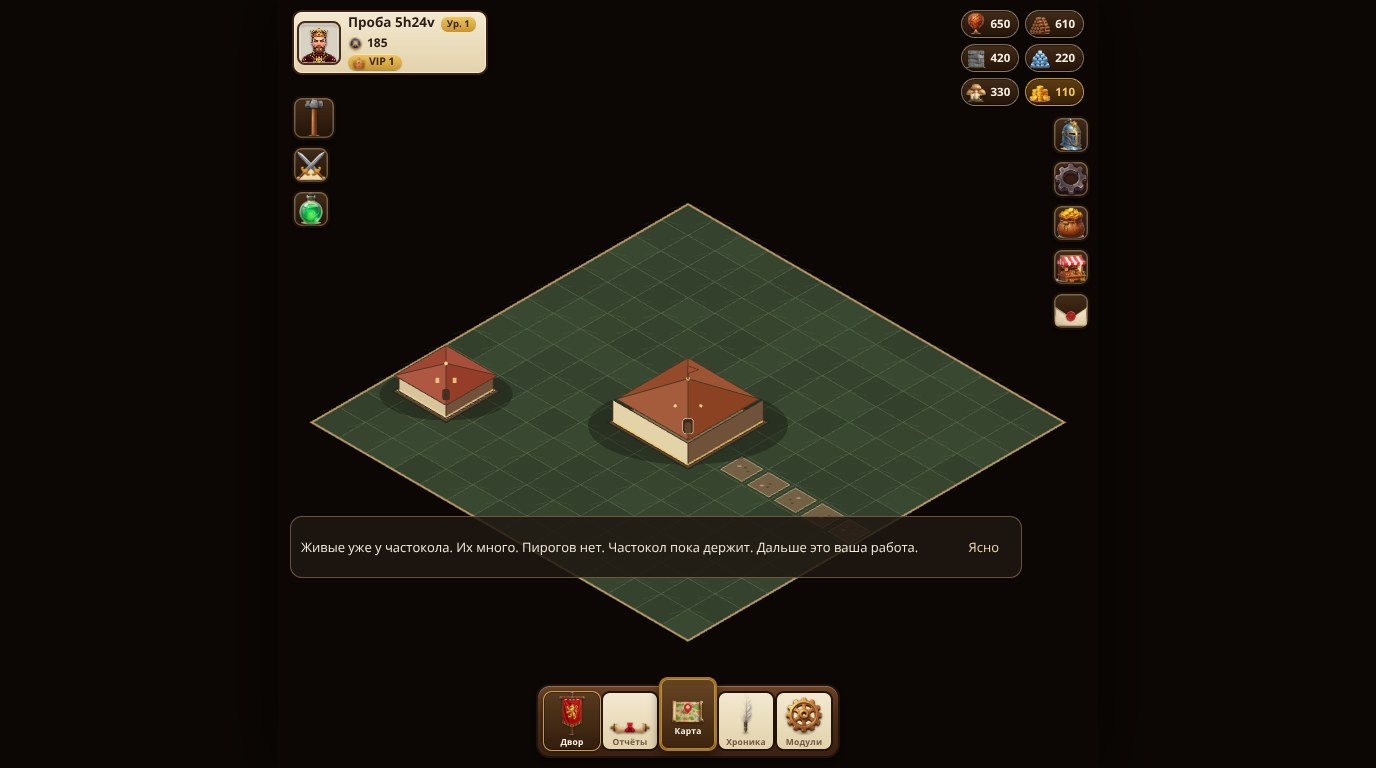
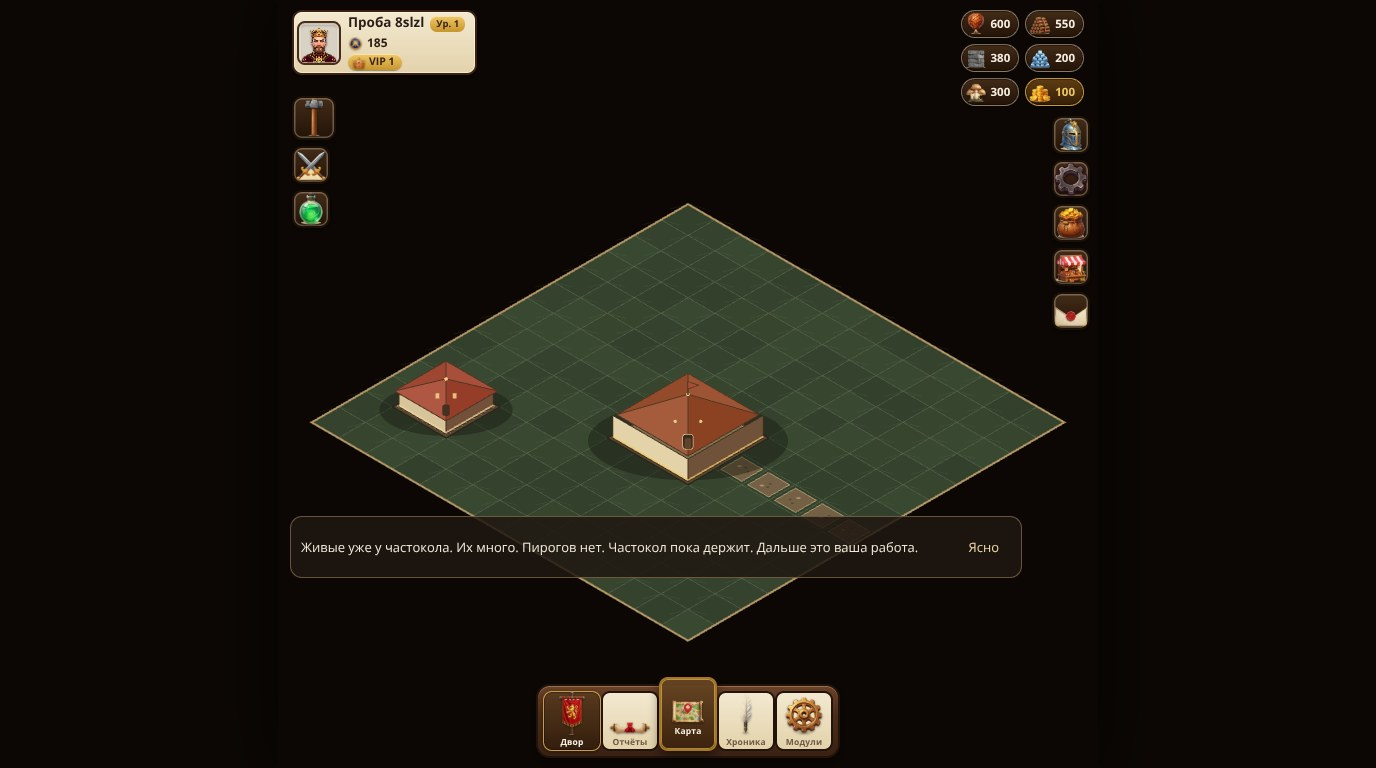
Выровнять геометрию зданий двора

Changed region(s): [[0.4375, 0.4688, 0.5625, 0.625], [0.2812, 0.4375, 0.375, 0.5625], [0.2812, 0.0, 0.375, 0.0938]]

diff --git a/apps/client/src/game/court/ghost.ts b/apps/client/src/game/court/ghost.ts
@@ -1,5 +1,5 @@
 import { Graphics } from "pixi.js";
-import { buildingFootprint } from "./building.js";
+import { buildingCenter, buildingFootprintBounds } from "./building.js";
 import { cellDiamond, TILE_HEIGHT, TILE_WIDTH, worldToScreen } from "./isometric.js";
 import type { CourtCell, CourtGrid, CourtSceneMode } from "./types.js";
 
@@ -35,18 +35,12 @@ export function drawGhost(
     return;
   }
 
-  const footprint = buildingFootprint(preview.type);
-  const halfX = Math.floor(footprint.width / 2);
-  const halfZ = Math.floor(footprint.depth / 2);
-  const firstX = preview.x - halfX;
-  const firstZ = preview.z - halfZ;
-  const lastX = firstX + footprint.width - 1;
-  const lastZ = firstZ + footprint.depth - 1;
+  const bounds = buildingFootprintBounds(preview.type, preview.x, preview.z);
   const points = [
-    worldToScreen(firstX, firstZ),
-    worldToScreen(lastX + 1, firstZ),
-    worldToScreen(lastX + 1, lastZ + 1),
-    worldToScreen(firstX, lastZ + 1),
+    worldToScreen(bounds.minX, bounds.minZ),
+    worldToScreen(bounds.maxX, bounds.minZ),
+    worldToScreen(bounds.maxX, bounds.maxZ),
+    worldToScreen(bounds.minX, bounds.maxZ),
   ].map((point) => ({ x: point.x, y: point.y - (size * TILE_HEIGHT) / 2 }));
 
   const valid = isPlacementOpen(grid, preview, mode.pending?.from, size);
@@ -57,7 +51,8 @@ export function drawGhost(
     .stroke({ color, width: 2.5, alpha: 0.95 });
 
   // Небольшой маяк показывает, что именно сейчас выбрано в панели стройки.
-  const center = worldToScreen(preview.x - (footprint.width % 2 === 0 ? 0.5 : 0), preview.z - (footprint.depth % 2 === 0 ? 0.5 : 0));
+  const placementCenter = buildingCenter(preview);
+  const center = worldToScreen(placementCenter.x, placementCenter.z);
   graphics
     .circle(center.x, center.y - (size * TILE_HEIGHT) / 2 - TILE_HEIGHT * 0.45, Math.max(3, TILE_WIDTH * 0.11))
     .fill({ color, alpha: 0.72 })
@@ -70,23 +65,19 @@ function isPlacementOpen(
   movingFrom: CourtCell | undefined,
   size: number,
 ): boolean {
-  const footprint = buildingFootprint(placement.type);
-  const halfX = Math.floor(footprint.width / 2);
-  const halfZ = Math.floor(footprint.depth / 2);
+  const target = buildingFootprintBounds(placement.type, placement.x, placement.z);
   const cells = new Set<string>();
   for (const building of grid.buildings) {
     if (movingFrom && building.x === movingFrom.x && building.z === movingFrom.z && building.type === placement.type) continue;
-    const occupied = buildingFootprint(building.type);
-    const fromX = building.x - Math.floor(occupied.width / 2);
-    const fromZ = building.z - Math.floor(occupied.depth / 2);
-    for (let x = fromX; x < fromX + occupied.width; x += 1) {
-      for (let z = fromZ; z < fromZ + occupied.depth; z += 1) cells.add(`${x}:${z}`);
+    const occupied = buildingFootprintBounds(building.type, building.x, building.z);
+    for (let x = occupied.minX; x < occupied.maxX; x += 1) {
+      for (let z = occupied.minZ; z < occupied.maxZ; z += 1) cells.add(`${x}:${z}`);
     }
   }
   for (const road of grid.roads) cells.add(`${road.x}:${road.z}`);
 
-  for (let x = placement.x - halfX; x < placement.x - halfX + footprint.width; x += 1) {
-    for (let z = placement.z - halfZ; z < placement.z - halfZ + footprint.depth; z += 1) {
+  for (let x = target.minX; x < target.maxX; x += 1) {
+    for (let z = target.minZ; z < target.maxZ; z += 1) {
       if (x < 0 || z < 0 || x >= size || z >= size || cells.has(`${x}:${z}`)) return false;
     }
   }

diff --git a/apps/client/src/game/court/building.ts b/apps/client/src/game/court/building.ts
@@ -1,5 +1,5 @@
 import { Container, Graphics } from "pixi.js";
-import { getDepth, TILE_HEIGHT, TILE_WIDTH, worldToScreen } from "./isometric.js";
+import { TILE_HEIGHT, TILE_WIDTH, worldToScreen } from "./isometric.js";
 import type { CourtBuilding } from "./types.js";
 
 export interface Footprint {
@@ -39,13 +39,43 @@ function footprintOf(type: string): Footprint {
   return FOOTPRINTS[type] ?? { width: 1, depth: 1 };
 }
 
-/** Для чётного пятна серверный якорь стоит на правой/нижней из двух клеток. */
-export function buildingCenter(building: CourtBuilding): { x: number; z: number } {
-  const footprint = footprintOf(building.type);
+export interface BuildingFootprintBounds {
+  minX: number;
+  minZ: number;
+  maxX: number;
+  maxZ: number;
+  width: number;
+  depth: number;
+  center: { x: number; z: number };
+}
+
+/** Границы пятна по той же схеме, что сервер: координаты здания — индекс якорной клетки. */
+export function buildingFootprintBounds(type: string, x: number, z: number): BuildingFootprintBounds {
+  const footprint = footprintOf(type);
+  const minX = x - Math.floor(footprint.width / 2);
+  const minZ = z - Math.floor(footprint.depth / 2);
+  const maxX = minX + footprint.width;
+  const maxZ = minZ + footprint.depth;
   return {
-    x: building.x - (footprint.width % 2 === 0 ? 0.5 : 0),
-    z: building.z - (footprint.depth % 2 === 0 ? 0.5 : 0),
+    minX,
+    minZ,
+    maxX,
+    maxZ,
+    width: footprint.width,
+    depth: footprint.depth,
+    center: { x: (minX + maxX) / 2, z: (minZ + maxZ) / 2 },
   };
+}
+
+/** Центр геометрии: клетки заданы целыми индексами, их центры — индекс + 0.5. */
+export function buildingCenter(building: CourtBuilding): { x: number; z: number } {
+  return buildingFootprintBounds(building.type, building.x, building.z).center;
+}
+
+/** Глубина сортировки по переднему нижнему углу footprint. */
+export function buildingDepth(building: CourtBuilding): number {
+  const bounds = buildingFootprintBounds(building.type, building.x, building.z);
+  return bounds.maxX + bounds.maxZ;
 }
 
 function point(x: number, z: number, elevation = 0): { x: number; y: number } {
@@ -219,7 +249,7 @@ export function createBuilding(building: CourtBuilding, size: number, townhallLe
   const projected = worldToScreen(center.x, center.z);
   const container = new Container();
   container.position.set(projected.x, projected.y - (size * TILE_HEIGHT) / 2);
-  container.zIndex = getDepth(center.x, center.z) + (footprint.width + footprint.depth) / 4;
+  container.zIndex = buildingDepth(building);
   container.label = `building:${building.type}:${building.x}:${building.z}`;
 
   const graphics = new Graphics();

diff --git a/apps/client/src/game/court/courtScene.ts b/apps/client/src/game/court/courtScene.ts
@@ -2,7 +2,7 @@ import { Application, Container, Graphics } from "pixi.js";
 import { bridge } from "../bridge.js";
 import type { StateUpdate } from "../bridge.js";
 import { CourtCamera } from "./camera.js";
-import { createBuilding, hitBuilding } from "./building.js";
+import { buildingDepth, createBuilding, hitBuilding } from "./building.js";
 import { drawGhost } from "./ghost.js";
 import { CourtInput } from "./input.js";
 import { screenToCell } from "./isometric.js";
@@ -120,15 +120,15 @@ export class CourtScene {
   private handleTap(point: { x: number; y: number }): void {
     const local = this.camera.toLocal(point);
     const cell = screenToCell(local.x, local.y, this.grid.size);
-    if (!cell) return;
 
     if (this.mode.placing || this.mode.roadTool || this.mode.pending?.from) {
-      bridge.emit("tile:click", cell);
+      if (cell) bridge.emit("tile:click", cell);
       return;
     }
 
+    // Здание проверяем раньше клетки: крыша может выступать за плоскость сетки.
     const building = [...this.grid.buildings]
-      .sort((a, b) => depth(b) - depth(a))
+      .sort((a, b) => buildingDepth(b) - buildingDepth(a))
       .find((candidate) => hitBuilding(candidate, local, this.grid.size));
     if (building) {
       bridge.emit("building:click", {
@@ -139,7 +139,7 @@ export class CourtScene {
       });
       return;
     }
-    bridge.emit("tile:click", cell);
+    if (cell) bridge.emit("tile:click", cell);
   }
 
   private drawPreview(): void {
@@ -195,8 +195,4 @@ function isRecord(value: unknown): value is Record<string, unknown> {
 
 function inside(cell: { x: number; z: number }, size: number): boolean {
   return cell.x >= 0 && cell.z >= 0 && cell.x < size && cell.z < size;
-}
-
-function depth(building: CourtBuilding): number {
-  return building.x + building.z;
 }

diff --git a/apps/client/tests/building.test.ts b/apps/client/tests/building.test.ts
@@ -1,0 +1,29 @@
+import { describe, expect, it } from "vitest";
+import { buildingCenter, buildingDepth, buildingFootprintBounds, createBuilding } from "../src/game/court/building.js";
+import { TILE_HEIGHT, worldToScreen } from "../src/game/court/isometric.js";
+
+describe("court building geometry", () => {
+  it("centers the visual footprint on the server's occupied cells", () => {
+    expect(buildingFootprintBounds("townhall", 7, 7)).toMatchObject({
+      minX: 6,
+      minZ: 6,
+      maxX: 9,
+      maxZ: 9,
+      center: { x: 7.5, z: 7.5 },
+    });
+    expect(buildingCenter({ type: "cottage", x: 4, z: 6 })).toEqual({ x: 4, z: 6 });
+    expect(buildingCenter({ type: "bench", x: 4, z: 6 })).toEqual({ x: 4, z: 6.5 });
+    expect(buildingCenter({ type: "lantern", x: 2, z: 8 })).toEqual({ x: 2.5, z: 8.5 });
+  });
+
+  it("positions the sprite at the footprint center and sorts by its front edge", () => {
+    const building = { type: "cottage", x: 4, z: 6 };
+    const sprite = createBuilding(building, 14);
+    const center = worldToScreen(4, 6);
+
+    expect(sprite.position.x).toBeCloseTo(center.x, 6);
+    expect(sprite.position.y).toBeCloseTo(center.y - (14 * TILE_HEIGHT) / 2, 6);
+    expect(buildingDepth(building)).toBe(12);
+    sprite.destroy({ children: true });
+  });
+});

diff --git a/docs/game/28-pixi-migration.md b/docs/game/28-pixi-migration.md
@@ -137,8 +137,8 @@ R3F), `src/three-jsx.d.ts`. Оставляем: `tools/shots/*` (boot-shot, walk
       getDepth = x + z; unit-тесты.
 - [x] `tileMap.ts`: сетка `grid.size`×`grid.size` (с сервера), графика тайлов и дорог,
       tap по клетке → bridge.
-- [x] `building.ts`: векторные placeholder-модели по типу, сортировка по глубине,
-      tap по зданию → bridge; реальные PNG — отдельная задача.
+- [x] `building.ts`: векторные placeholder-модели по типу; anchor footprint совпадает с сервером,
+      модель, ghost и hit-test используют единые границы; реальные PNG — отдельная задача.
 - [x] `camera.ts`: pan/drag, зум 0.85…2.2 (wheel/щипок), границы площадки;
       демпфирование оставлено на полировку.
 - [x] `input.ts`: пороги tap/drag настроены отдельно для мыши, пера и touch; pinch двух касаний и wheel-зум.
@@ -154,34 +154,50 @@ R3F), `src/three-jsx.d.ts`. Оставляем: `tools/shots/*` (boot-shot, walk
 - [x] Двор 14×14 и здания видны; сетка, дороги и постройки читаются из серверного состояния.
 - [x] Tap по клетке/постройке, drag камеры после зума и wheel-зум проверены в Chromium;
       touch-pinch реализован, проверка на телефоне остаётся за заказчиком в Replit.
-- [x] Размещение проверено `pnpm walk`; выбор/перенос/дорога используют существующие
-      серверные команды (без клиентской мутации авторитетного состояния).
+- [x] Размещение проверено `pnpm walk`; выбор и перенос здания проверены командой `court.move`;
+      footprints/ghost совпадают с серверными клетками, без клиентской мутации авторитетного состояния.
 - [ ] 60 FPS на десктопе, ≥30 на мобильном — отдельный профильный замер не делали; заказчик сообщает, что лагов не заметил.
-- [x] Тесты isometric/bridge/camera/input — зелёные (26 тестов клиента всего).
+- [x] Тесты isometric/bridge/camera/input/building — зелёные (28 тестов клиента всего).
 
 Этап реализован и проверен 08.10.2026; ожидает визуального одобрения заказчика.
 Скриншот живой сцены: [ui/client/pixi-stage2.jpg](ui/client/pixi-stage2.jpg).
 
 ### Этап 2.5. Дизайн UI (совместно с заказчиком)
 
-> Референсы заказчика (08.10.2026): **Viking Race = Viking Rise** (подтверждено) + RoK.
-> RoK разобран в [21](21-rok-reference.md); **16 реальных игровых скриншотов заказчика**
-> (RU) разобраны по экранам + 18 паттернов «что берём» + скелет главного экрана —
-> [29](29-ui-refs-viking-rok.md). Решения: главная линия — постоянная панель слева (как в VR),
-> док — старт с 5 кнопок, стройка — пилюля в сцене + панель (ждёт финального «оба»).
-> Референсы архитектуры для карты — OpenFrontIO, для систем — OpenDominion
-> (проверка чужого списка кандидатов — [27](27-frontend-os-research.md)).
+> Референсы заказчика (08.10.2026): **Viking Rise + RoK**. Разбор 16 реальных игровых
+> скриншотов, 18 паттернов «что берём» и скелет главного экрана собраны в
+> [29](29-ui-refs-viking-rok.md). Уже подтверждены: постоянная левая панель (как в VR),
+> стартовый док из пяти кнопок. Очереди «пилюля в сцене + панель», состав главной линии,
+> декор и палитра остаются открытыми — не считать утверждёнными.
+>
+> **Область по запросу заказчика (08.10.2026): весь существующий клиент, не только HUD двора.**
+> Визуально перерабатываются вступление, вход/регистрация, создание лорда и все текущие экраны
+> World: двор/стройка, отчёты, карта-заглушка, хроника, профиль/модули и их панели; включая
+> меню, ресурсы, иконки, профиль и состояния взаимодействия. Существующие маршруты, данные,
+> протокол и серверные команды сохраняются; отсутствующие в ядре механики не выдумывать.
+>
+> Референсы архитектуры для будущей карты — OpenFrontIO, для систем — OpenDominion
+> (см. [27](27-frontend-os-research.md)).
 
-- [ ] Дизайн-документ по принятому процессу: разбор (RoK-референс [21](21-rok-reference.md),
-      реальные экраны [17](17-ui-real-screens.md)) → скелет зон (топбар, панель лорда,
-      навигация, стройка, очереди, баннеры) → 3–5 вариантов на CSS (макеты, как
-      `ui/hud/main-screen.html`) → выбор заказчика.
-- [ ] Схемы экранов: двор (idle), двор (стройка), карта, профиль/очереди.
-- [ ] Палитра и токены для canvas/спрайтов (связка Pixi-сцены и HUD в одном стиле).
-- [ ] Реализация выбранного варианта в `src/ui/` + `hud.css`.
+- [ ] Инвентаризация всех текущих экранов и состояний: компоненты, тексты, данные, действия,
+      пустые/ошибочные/загрузочные состояния; отметить, что уже поддерживается сервером.
+- [ ] Скелет общей визуальной системы и карты переходов по существующим маршрутам;
+      правила адаптации для портрета/ландшафта и управления большим пальцем.
+- [ ] 3–5 полноэкранных CSS/HTML-вариантов по существующему плану и референсам — для
+      одинакового набора экранов/состояний; затем выбор заказчика. Не менять финальный HUD
+      вслепую до выбора варианта.
+- [ ] Отдельно сверить оставшиеся решения из [29](29-ui-refs-viking-rok.md): очереди,
+      содержание «Пути вождя», декор и палитра. Не блокировать макеты там, где допустимы
+      наглядные варианты.
+- [ ] После выбора — заменить оболочку, боковое/нижнее меню, ресурсы и иконки, профиль,
+      панели двора/стройки и оформление остальных существующих маршрутов; оставить
+      state/bridge/commands неизменными.
+- [ ] На выбранной раскладке проверить touch-эргономику: крупные зоны нажатия, ясный target,
+      разделение tap/pan и сценарии выбора/переноса клетки большим пальцем.
 
-Начинается после «одобрено» этапа 2 (сцена живая, есть что оформлять) — или раньше,
-если заказчик захочет зафиксировать каркас заранее.
+Этот этап начат раньше полного одобрения этапа 2 по прямому запросу заказчика: сначала
+сверка с существующим планом и варианты на выбор, затем реализация утверждённого визуального
+направления. Функциональные правки этапа 2 продолжаются отдельно.
 
 ### Этап 3. Ночь, стадии, сезонность (по [22](22-seasons-daytime-buildings.md))
 
@@ -223,8 +239,8 @@ R3F), `src/three-jsx.d.ts`. Оставляем: `tools/shots/*` (boot-shot, walk
 | 0. Подготовка (3D → 2D, каркас) | 08.10.2026 | 08.10.2026 | — (тест в Replit) |
 | 0.1. Откат HUD-эксперимента (решение заказчика) | 08.10.2026 | 08.10.2026 | — (тот же тест) |
 | 1. Ядро Pixi | 08.10.2026 | 08.10.2026 (смок `tools/shots/pixi-smoke.ts`, кадр `ui/client/pixi-stage1.jpg`) | — (тест в Replit) |
-| 2.5. Дизайн UI (совместно) | — | — | — |
-| 2. Двор (Pixi) | 08.10.2026 | 08.10.2026 (typecheck/test/check/build, walk, pan/zoom/resize; `ui/client/pixi-stage2.jpg`) | — (ждёт визуального одобрения заказчика) |
+| 2.5. Дизайн UI (весь клиент) | 08.10.2026 (область зафиксирована) | 3–5 макетов ещё не сделаны | — (варианты ждут выбора) |
+| 2. Двор (Pixi) | 08.10.2026 | 08.10.2026 (typecheck, 196 тестов, check/build, walk, выбор/перенос и `court.move`; `ui/client/pixi-stage2.jpg`) | — (ждёт визуального одобрения заказчика) |
 | 3. Ночь/стадии/сезоны | — | — | — |
 | 4. Полировка | — | — | — |
 | 5. Карта мира | — | — | — (только после 4) |

diff --git a/docs/game/29-ui-refs-viking-rok.md b/docs/game/29-ui-refs-viking-rok.md
@@ -2,6 +2,10 @@
 
 > **Статус: разбор готов (08.10.2026), скелет главного экрана — ниже, ждёт выбора заказчика.**
 >
+> По уточнению заказчика (08.10.2026) визуальный редизайн охватывает весь существующий клиент,
+> а не только двор: скелет ниже — основа для главного экрана; оболочка, вход/регистрация,
+> создание лорда и остальные существующие маршруты должны получить ту же выбранную систему UI.
+>
 > Заказчик: Viking Race = **Viking Rise** (подтверждено, вопрос 1), референсы-фавориты —
 > Viking Rise + RoK. RoK разобран детально в [21](21-rok-reference.md) (12 кадров).
 > Первые 4 кадра я собрал сам из превью/рекламы (`court.jpg`, `map.jpg`, `heroes.jpg`,
